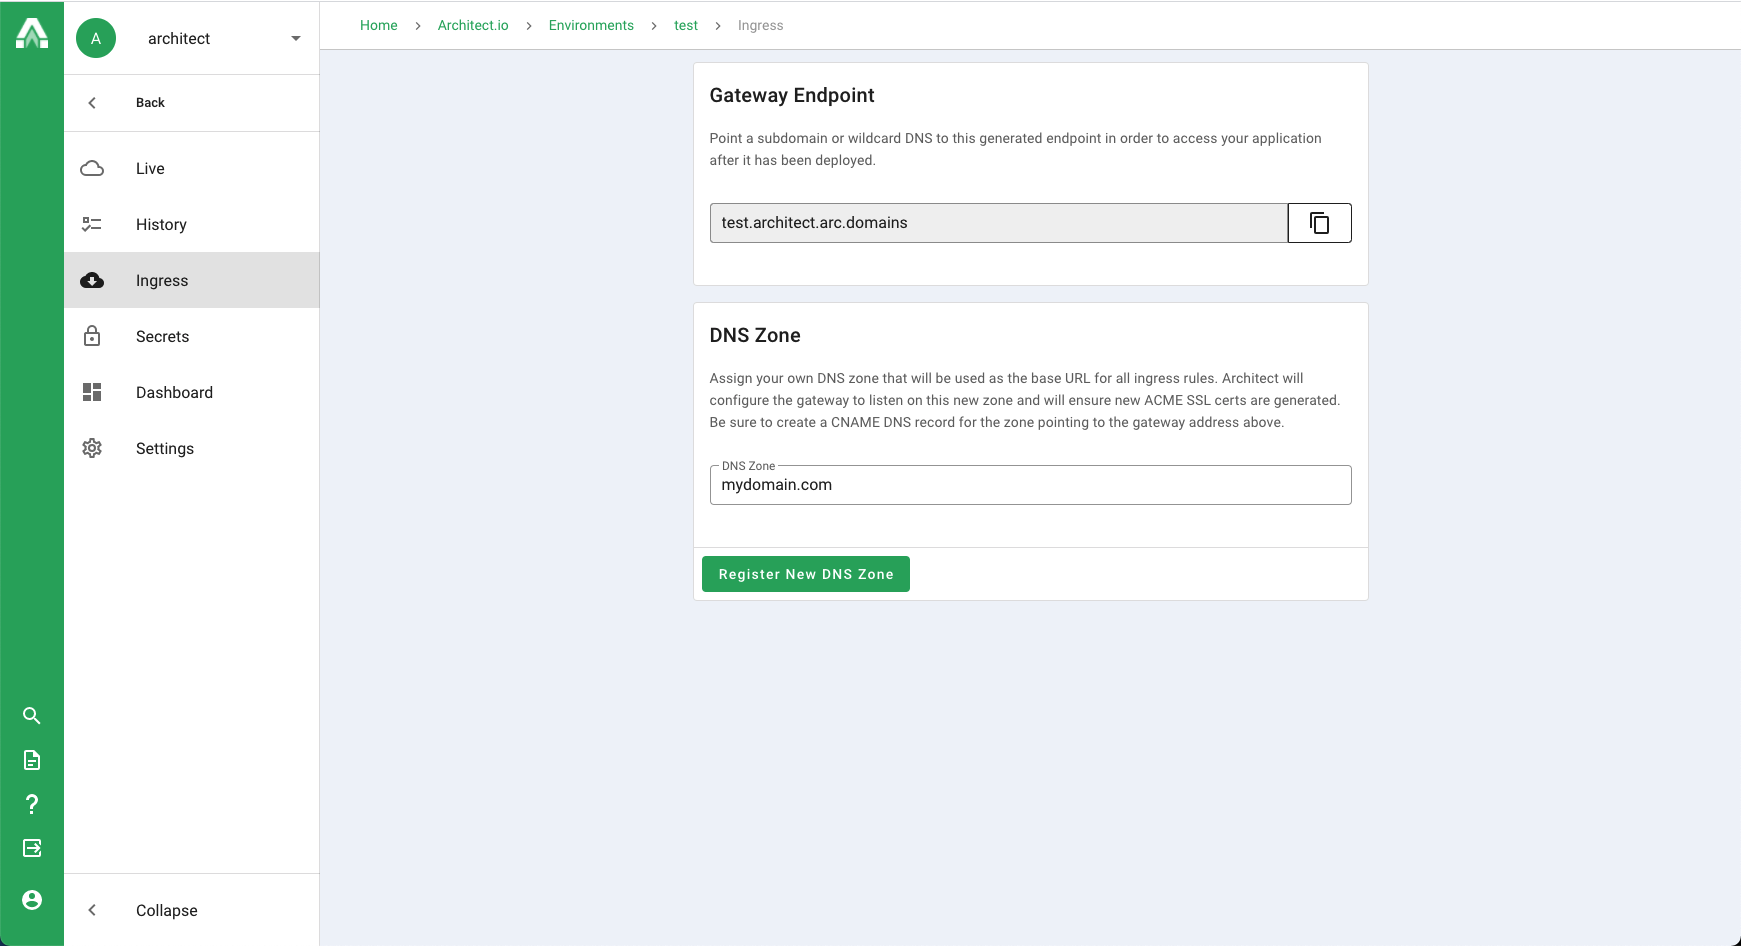
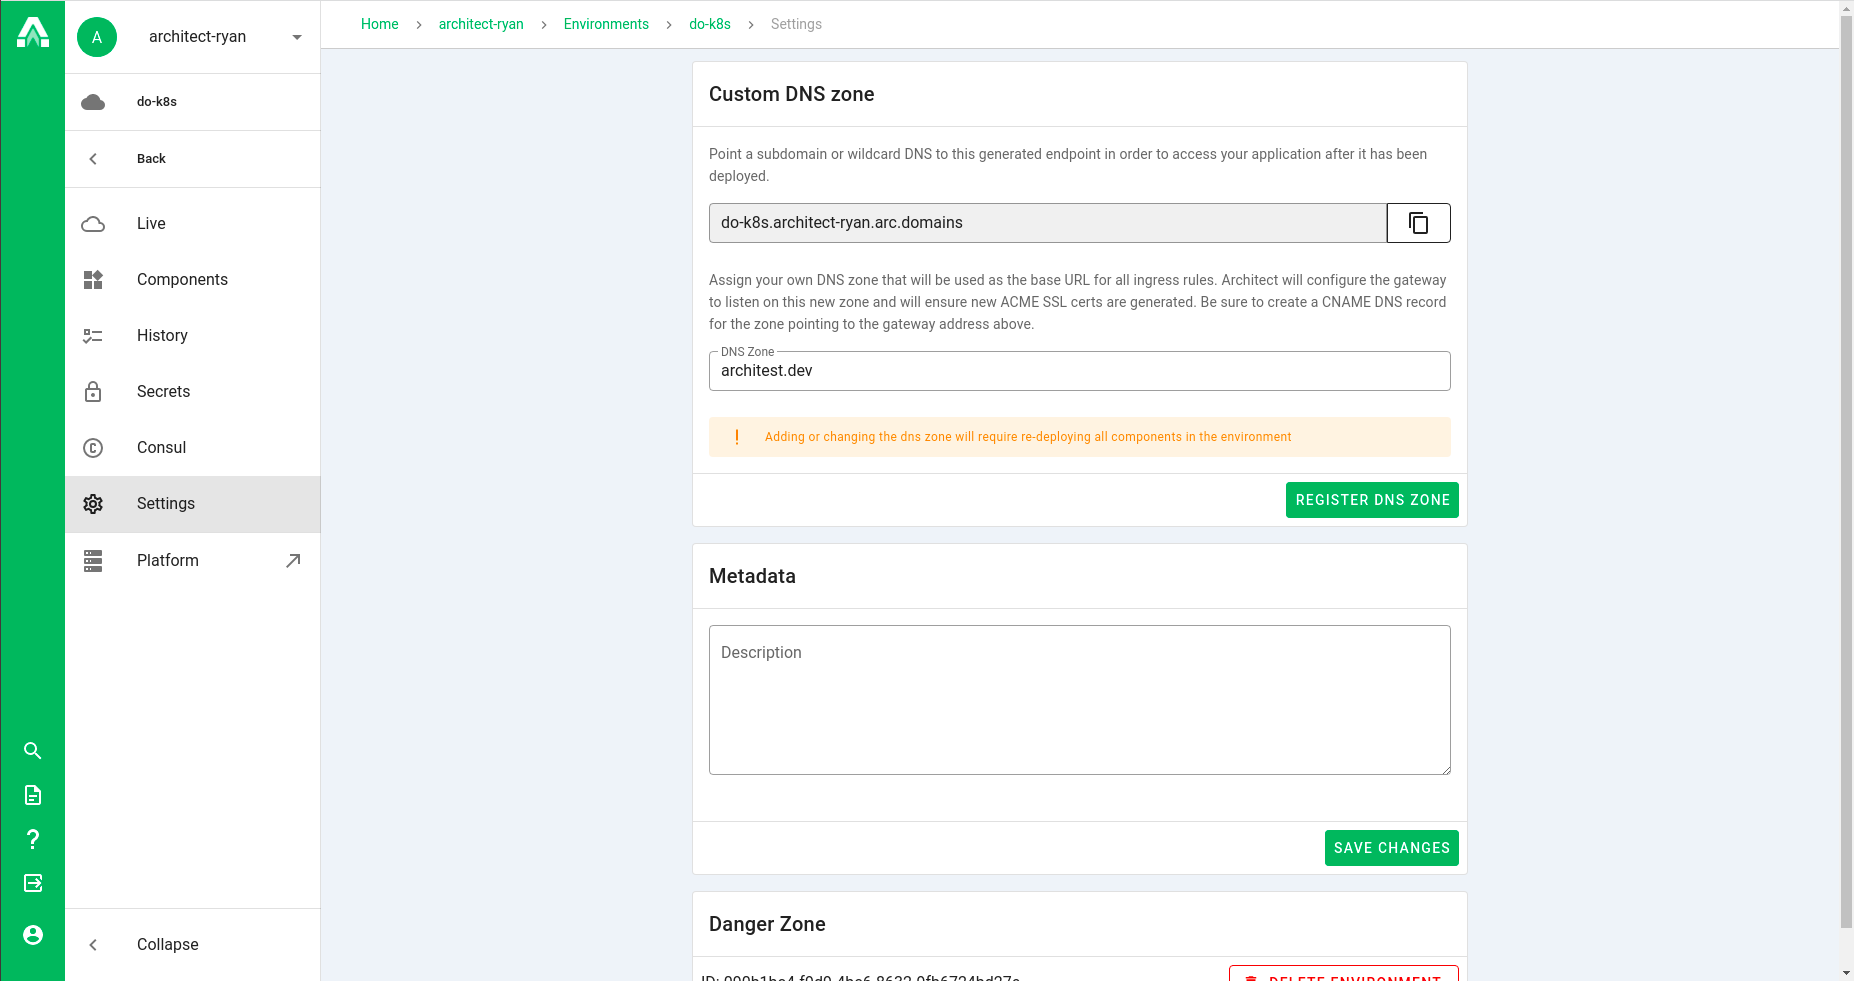
custom domains docs update

diff --git a/docs/2-deployments/4-custom-domains.md b/docs/2-deployments/4-custom-domains.md
@@ -4,8 +4,12 @@ title: Custom domains
 
 # Custom domains
 
-A common requirement for teams using Architect in production is the ability to bring their own domain name. By connecting a domain name to your environment, Architect can automatically configure the environment's API gateway to use the domain to power the environment's ingress rules.
+A common requirement for teams using Architect in production is the ability to bring their own domain name. By connecting a domain name to your environment, Architect can automatically configure the environment's API gateway to use the domain to power the environment's ingress rules as well as create the certificate.
 
-All you have to do is tell your environment which DNS zone to use for the ingress rules, and Architect will take care of the rest. Just navigate to your environment, click on "Ingress" in the navigation bar, and the register your DNS zone in the form. Architect does NOT manage your DNS for you, so once registered you'll have to point the DNS zone to the gateway endpoint cited using a CNAME record.
+All you have to do is tell your environment which DNS zone to use for the ingress rules, and Architect will take care of the rest. Just navigate to your environment, click on "Settings" in the navigation bar, and the register your DNS zone in the "Custom DNS zone" form. Architect does NOT manage your DNS for you, so once registered you'll have to point the DNS zone to the gateway endpoint cited using a CNAME record.
 
 ![Custom DNS Zone](./images/custom-dns-zone.png)
+
+Your DNS configuration for the environment settings above could look something like the setting below. If an application was exposed by Architect at any subdomain, It will be reachable at the same subdomain of the domain that you own.
+
+![Custom DNS Configuration](./images/custom-dns-configuration.png)
